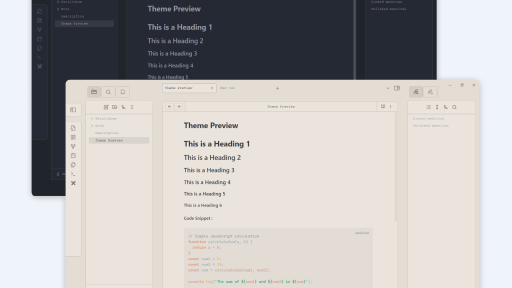
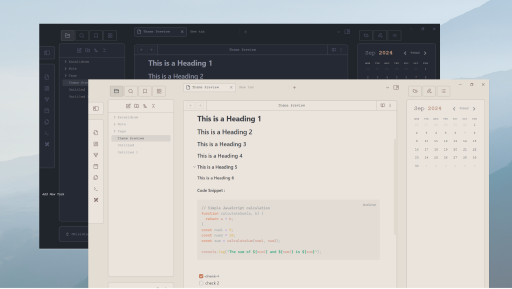
update

diff --git a/theme.css b/theme.css
@@ -19,7 +19,7 @@ body {
     --background-modifier-error-rgb: 230, 135, 135;
     --background-modifier-error-hover: #d67474;
     --background-modifier-cover: rgba(0, 0, 0, 0.366);
-    --border-size: 1px solid #6e72796d;
+    --border-size: 1.7px solid #6e72796d;
     --code-background: #2f3039;
     --code-keyword: #de895b;
     --code-normal: #a8aeb0;
@@ -66,7 +66,7 @@ body {
     --background-modifier-error-rgb: 230, 135, 135;
     --background-modifier-error-hover: #FF9494;
     --background-modifier-cover: rgba(0, 0, 0, 0.8);
-    --border-size: 1px solid #796e6e6d;
+    --border-size: 1.7px solid #796e6e47;
     --code-background: #e2dcd5;
     --code-keyword: #de895b;
     --code-normal: #a8aeb0;
@@ -115,32 +115,30 @@ body {
 
 .workspace-leaf-content{
     border: var(--border-size);
-    border-top-left-radius:10px;
-    border-top-right-radius:10px;
+    border-radius: 10px;
+    margin-bottom: 50px;
+}
 
+.workspace-tabs .workspace-leaf{
+    background-color: var(--background-primary);
 }
 
 .mod-root .workspace-leaf {
     margin: 20px;
     border-radius: 8px;
-    max-height: 720px;
-
 }
-
-.workspace-split.mod-root .view-content {
-    background: var(--background-secondary);
+.workspace-tabs .workspace-leaf .view-content,  .nav-header, .search-result-container.mod-global-search, .tag-container{
+    background-color: var(--background-secondary);
 }
-
-
-
 
 
 /* Tab */
 
 .workspace-tab-header.is-active {
     background-color: var(--tab-background-active);
+    border: var(--border-size);
+    box-shadow: none;
 }
-
 
 .theme-light .workspace-tab-header-container:not(.workspace-split) {
     align-items: center;
@@ -162,7 +160,6 @@ body {
 .mod-root:not(.mod-left-split):not(.mod-right-split) .workspace-tabs:not(.mod-stacked) .workspace-tab-header.is-active {
     background-color: var(--background-secondary);
     height: 35px;
-    border: var(--border-size);
     border-radius: 5px;
     color: rgb(60, 60, 60);
     text-align: center !important;
@@ -202,22 +199,18 @@ body {
     gap: 5px;
 }
 
-
 .view-header-nav-buttons .clickable-icon {
     border: var(--border-size);
 }
-
 
 .view-header-title-container {
     border-left: var(--border-size);
     border-right: var(--border-size);
 }
 
-
 .mod-fade:not(.mod-at-end):after {
     background: transparent;
 }
-
 
 .status-bar {
     border: var(--border-size);
@@ -229,30 +222,27 @@ body {
 /* Ribbon */
 
 
-
 .workspace-ribbon {
-    max-height: 500px;
-    height: 500px;
+    height: 400px;
+    max-height: 600px;
     background-color: var(--background-secondary);
-    display: flex;
-    flex-direction: column;
-    align-items: center;
     border-top-right-radius: 8px;
     border-bottom-right-radius: 8px;
 }
 
-.workspace-split {
-    max-height: 800px;
+.side-dock-settings, .side-dock-actions{
+    margin-top: 25px;
+    gap: 15px;
 }
-
 
 .nav-header{
     border-bottom: var(--border-size);
     padding: 12px;
 }
 
-
-
+.nav-files-container{
+    background-color: var(--background-secondary);
+}
 .workspace-split.mod-horizontal {
     background-color: var(--background-primary);
     padding: 6px;
@@ -272,7 +262,6 @@ body {
 }
 
 .workspace-ribbon .sidebar-toggle-button {
-    position: fixed;
     top: 10%;
     height: 50px;
     background: var(--background-secondary);
@@ -298,7 +287,10 @@ body {
 body:not(.is-mobile) .workspace-split.mod-left-split .workspace-sidedock-vault-profile {
     position: relative;
     border: var(--border-size);
+    bottom: 30px;
+    border-radius: 10px;
     width: 100%;
+    padding: 15px;
 }
 
 .workspace-split.mod-left-split>.workspace-leaf-resize-handle,
@@ -306,6 +298,9 @@ body:not(.is-mobile) .workspace-split.mod-left-split .workspace-sidedock-vault-p
     border: none;
 }
 
+.is-hidden-frameless:not(.is-fullscreen) .workspace-tabs.mod-top-right-space .workspace-tab-header-container{
+    padding-right: -1px;
+}
 
 
 
@@ -438,6 +433,10 @@ select,
     background-color: var(--background-secondary);
 }
 
+.community-item{
+    border: var(--border-size);
+}
+
 body:not(.is-phone) .horizontal-tab-nav-item.is-active,
 body:not(.is-phone) .vertical-tab-nav-item.is-active {
     padding: 10px;
@@ -455,6 +454,7 @@ body:not(.is-phone) .vertical-tab-nav-item.is-active {
 
 .is-hidden-frameless:not(.is-fullscreen).is-focused .titlebar-button-container.mod-right {
     background-color: var(--background-primary);
+    cursor: pointer;
 }
 
 .is-hidden-frameless:not(.is-fullscreen) .titlebar-button-container.mod-right {
@@ -468,10 +468,3 @@ body:not(.is-phone) .vertical-tab-nav-item.is-active {
 .is-focused .titlebar-inner {
     color: var(--icon-color);
 }
-
-
-
-
-
-
-

diff --git a/README.md b/README.md
@@ -4,12 +4,10 @@ A sleek and minimalist Obsidian theme designed for those who appreciate clean li
 
 
 
-![preview_img_1](./Image/image1.png)
+![preview_img_1](./Image/Image1.png)
 
 
-![preview_img_2](./Image/image2.png)
-
-![preview_img_3](./Image/image3.png)
+![preview_img_2](./Image/Image2.png)
 
 
 
